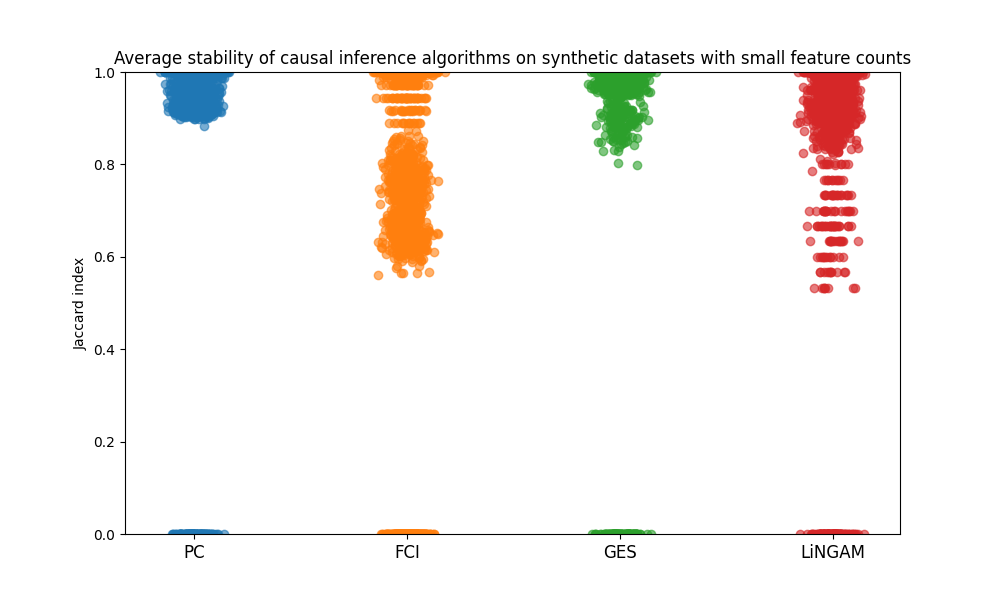
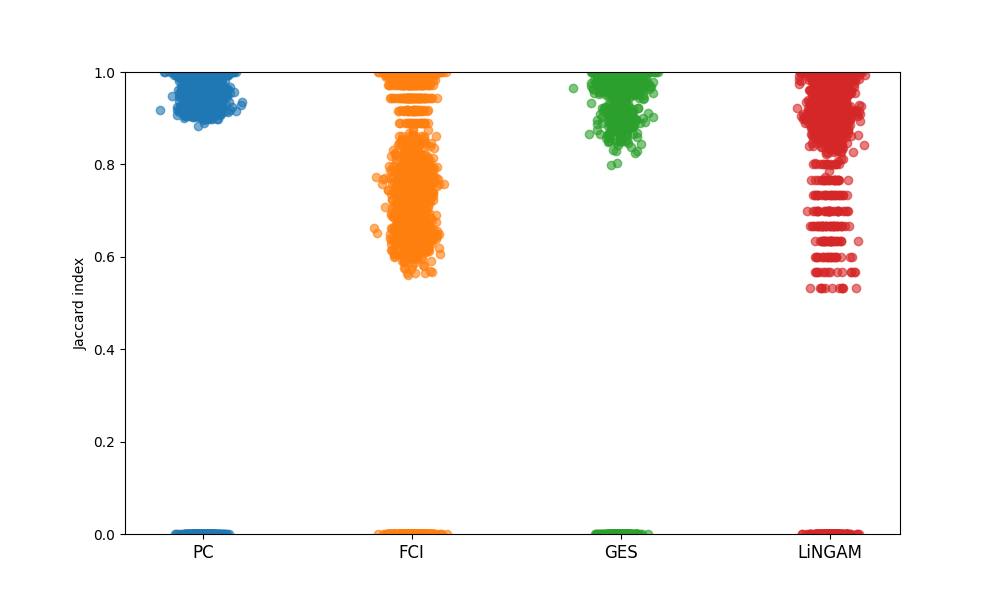
Finalizing results for December submission

diff --git a/analyze_results.py b/analyze_results.py
@@ -1,5 +1,7 @@
 import pandas as pd
 import matplotlib.pyplot as plt
+import seaborn as sns
+
 import numpy as np
 
 
@@ -17,7 +19,7 @@ def analyze_rq1():
     plt.xticks(x_positions, df.columns, fontsize=12)
     plt.ylim(0, 1)  
     plt.ylabel('Jaccard index')
-    plt.title('Average stability of causal inference algorithms on synthetic datasets with small feature counts')
+    plt.title('')
     plt.savefig("results\\RQ1.png", format="png")
 
 
@@ -34,7 +36,7 @@ def analyze_rq2():
     plt.xticks(x_positions, df.columns, fontsize=12)
     plt.ylim(0, 1)  
     plt.ylabel('Percentage')
-    plt.title('Percentage of correct and within 5% of the correct algorithm for algorithm selection for synthetic data')
+    plt.title('')
     plt.savefig("results\\RQ2.png", format="png")
     plt.grid(axis='y', linestyle='--', alpha=0.7)
   
@@ -53,7 +55,7 @@ def analyze_rq3():
     plt.xticks(x_positions, df.columns, fontsize=12)
     plt.ylim(0, 1)  
     plt.ylabel('Jaccard index')
-    plt.title('Average stability of causal inference algorithms on real SE datasets with large feature counts')
+    plt.title('')
     plt.savefig("results\\RQ3.png", format="png")
 
 def analyze_rq4():
@@ -69,13 +71,29 @@ def analyze_rq4():
     plt.xticks(x_positions, df.columns, fontsize=12)
     plt.ylim(0, 1)  
     plt.ylabel('Percentage')
-    plt.title('Percentage of correct and within 5% of the correct algorithm for algorithm selection for real SE data')
+    plt.title('')
     plt.savefig("results\\RQ4.png", format="png")
     plt.grid(axis='y', linestyle='--', alpha=0.7)
 
-
+def analyze_5_6(csv_path='results/RQ5.csv', output_path='results/RQ5.png'):
+        
+    df = pd.read_csv(csv_path, header=None)
+    
+    
+    x = df.index
+    y = df[0].values  
+    plt.figure(figsize=(8, 6))
+    plt.ylim(0, 1)
+    plt.scatter(x, y, color='blue', marker='o')  
+    plt.title('')
+    plt.xlabel('Attempt')
+    plt.ylabel('Average improvement of treatment (percentage based)')
+    plt.savefig(output_path, bbox_inches='tight', dpi=300)
+    plt.close()  
 
 analyze_rq1()
 analyze_rq2()
 analyze_rq3()
 analyze_rq4()
+analyze_5_6()
+analyze_5_6('results/RQ6.csv', 'results/RQ6.png')
